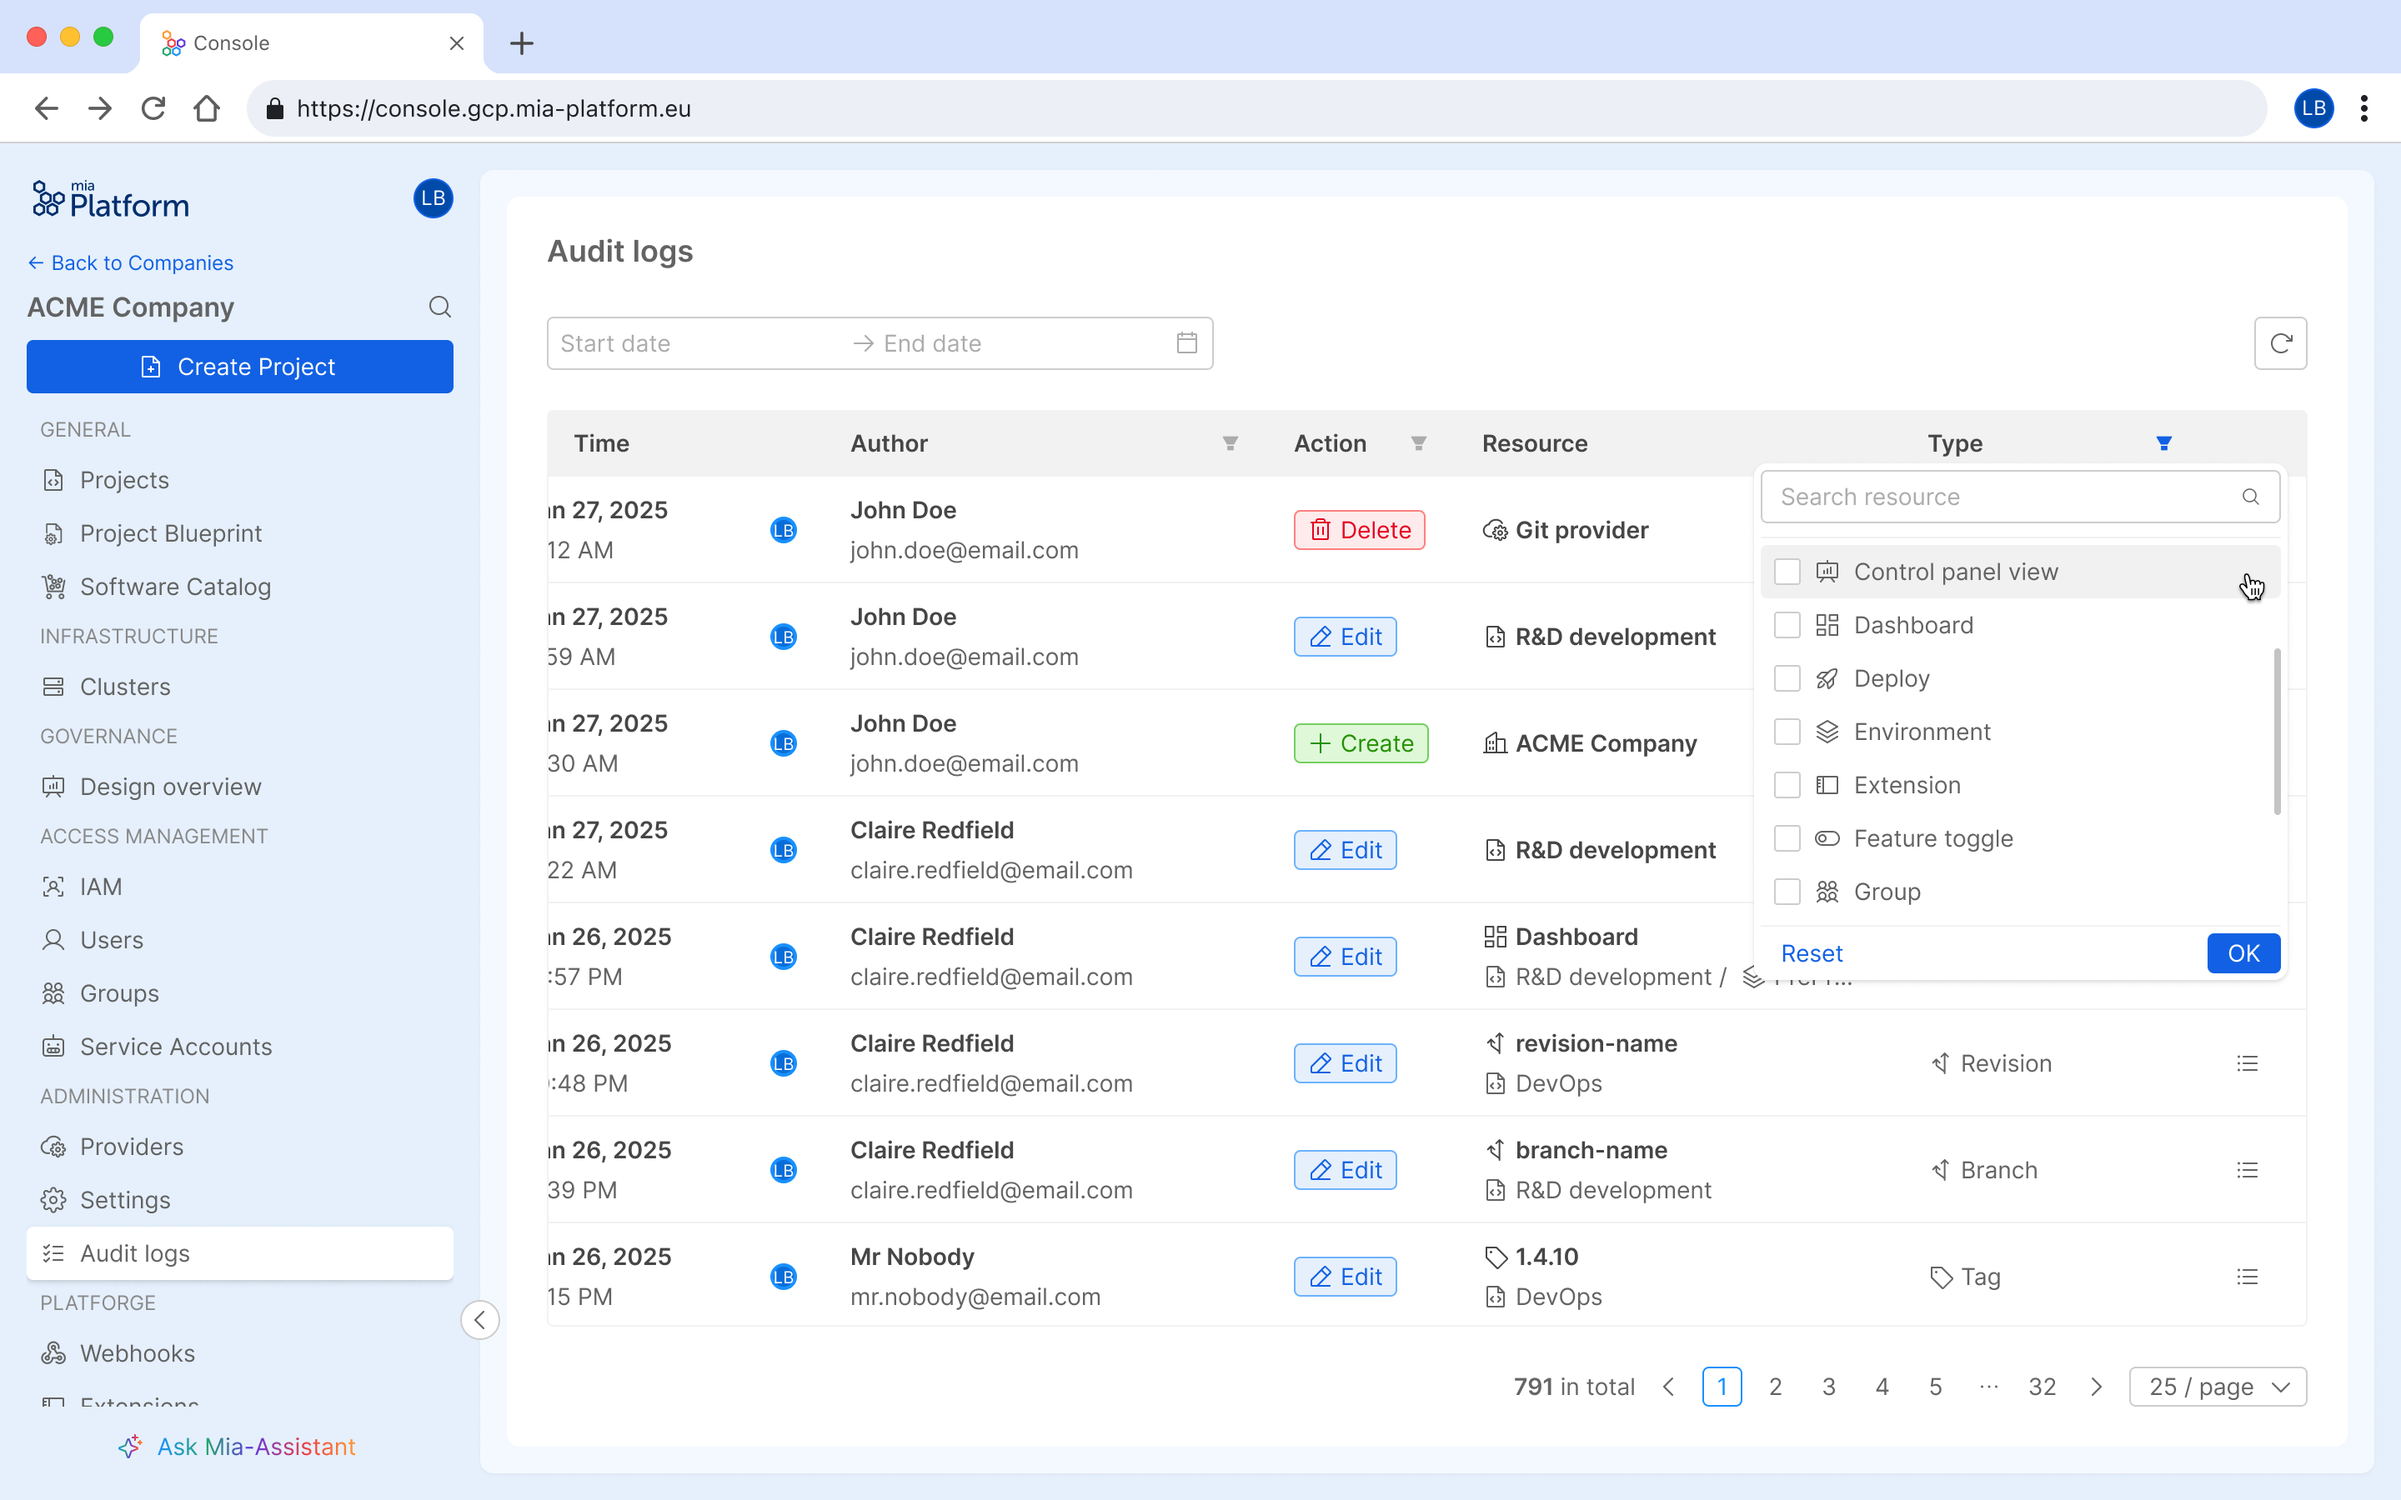
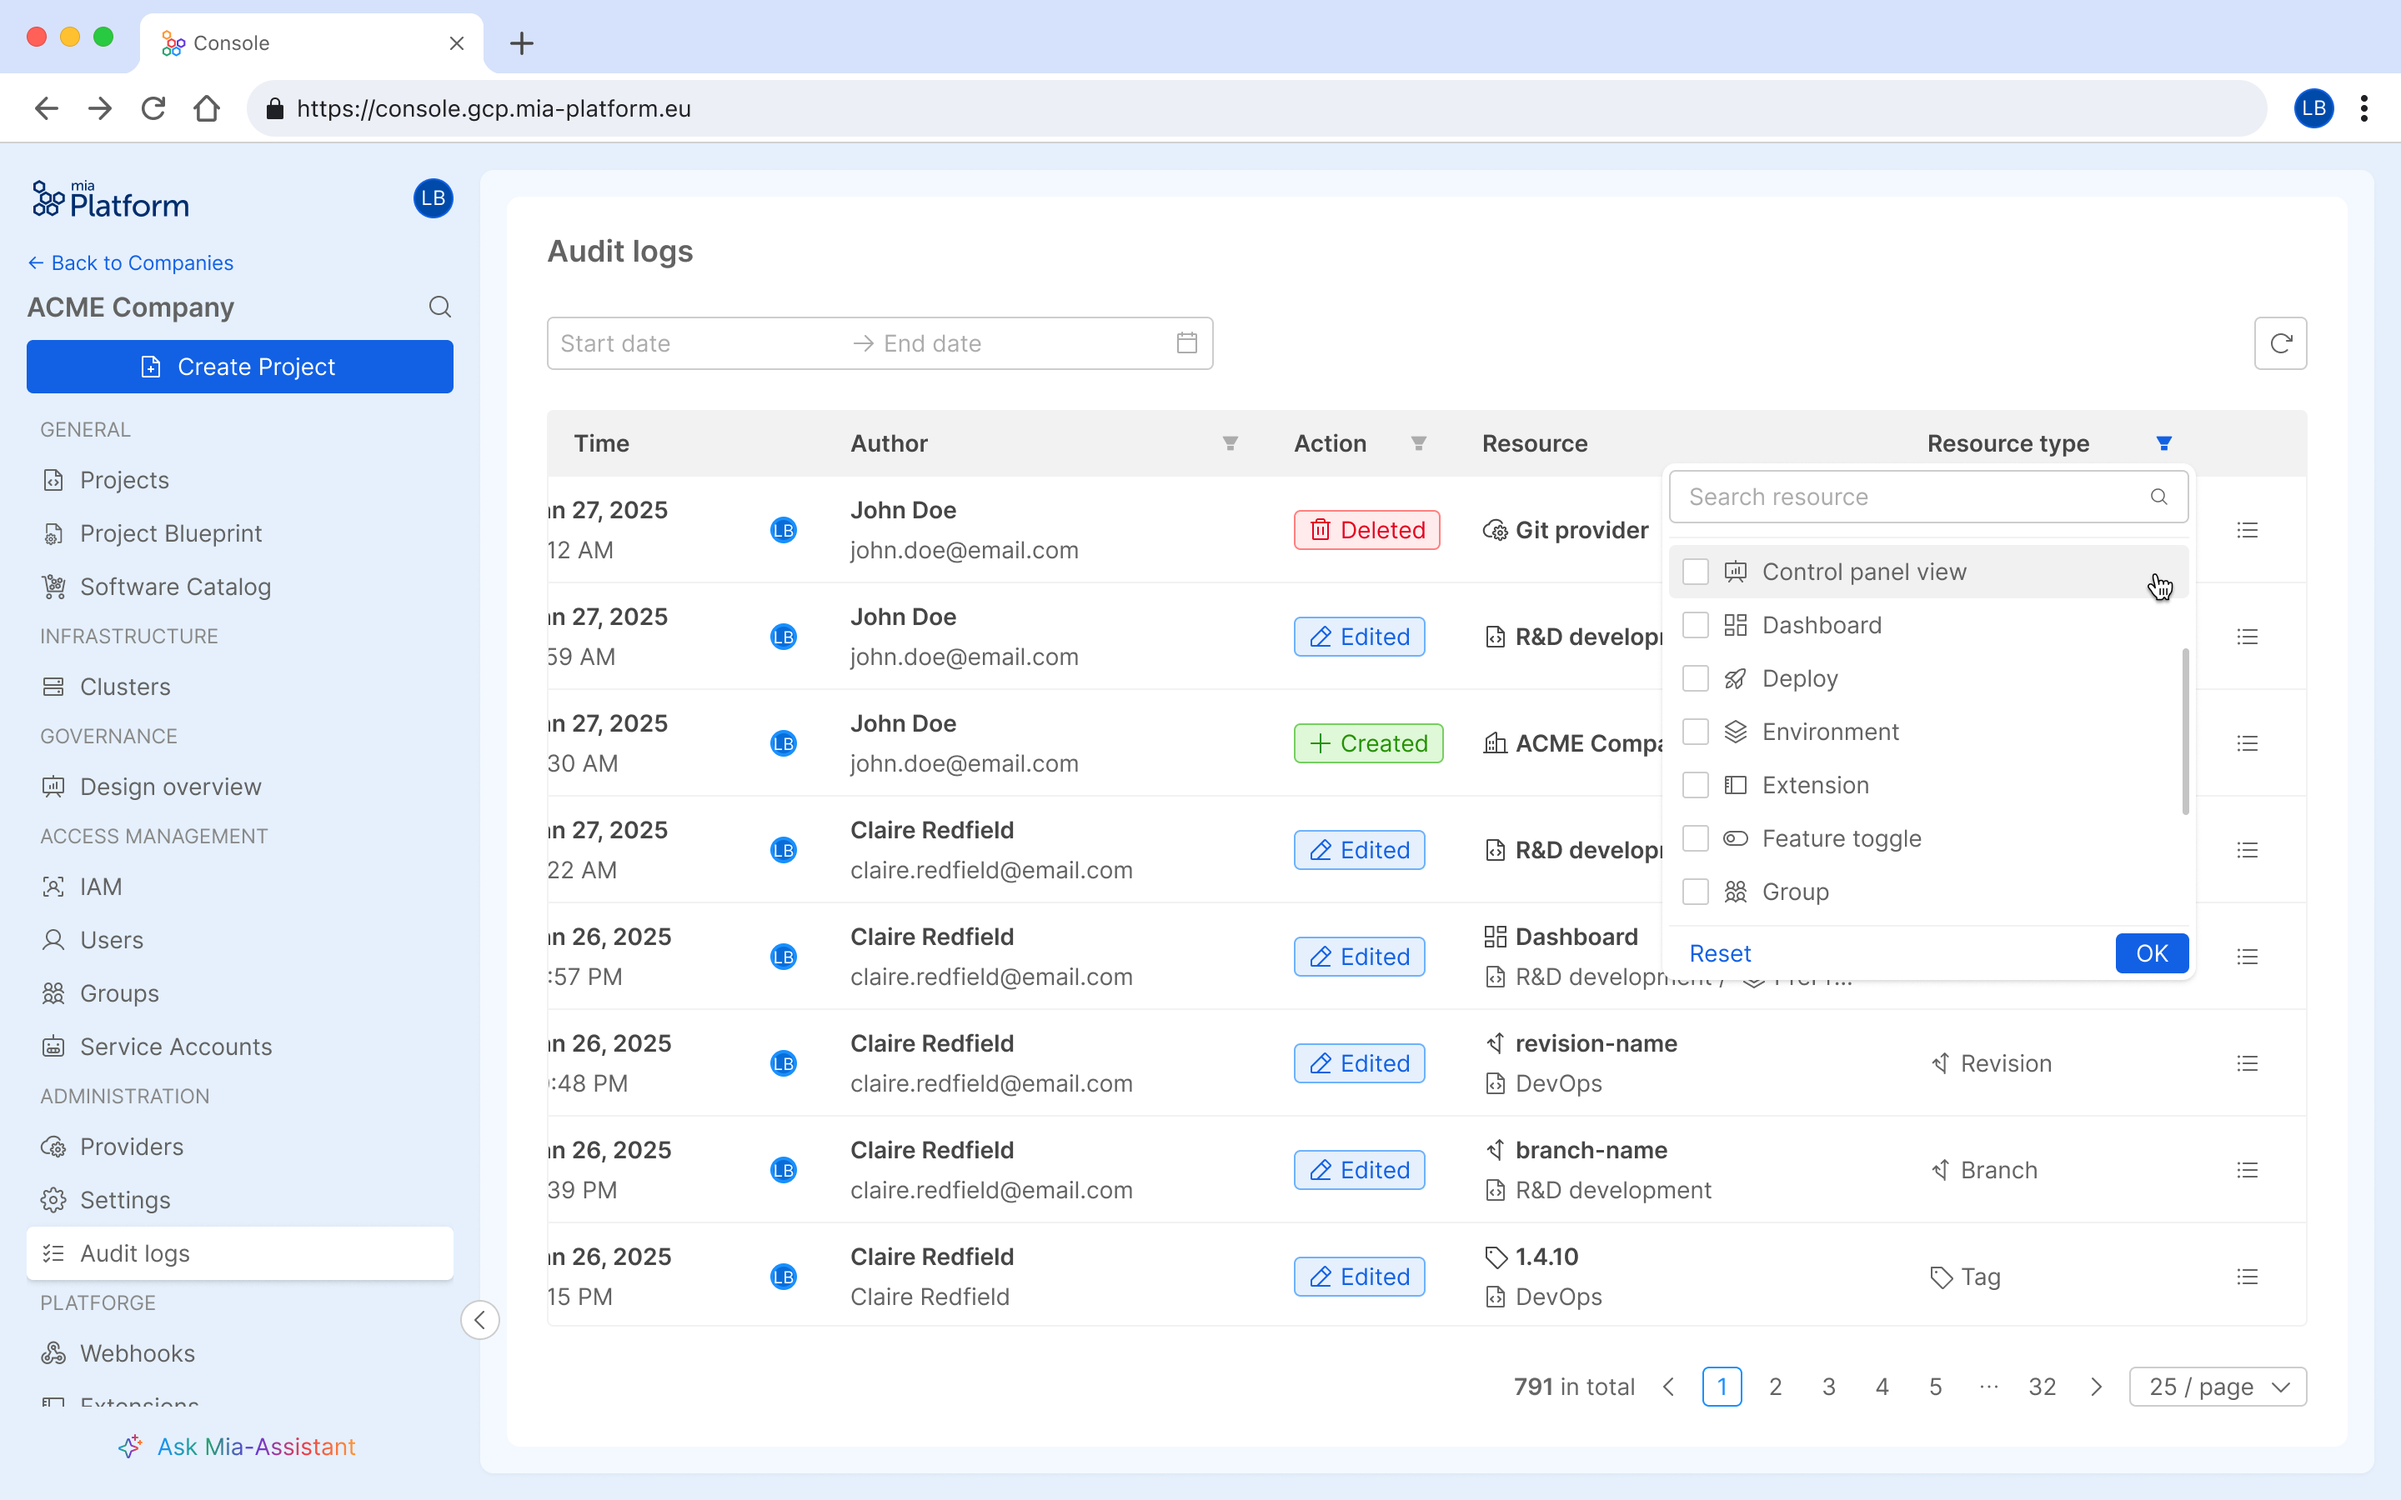
review

diff --git a/docs/development_suite/identity-and-access-management/monitor-audit-logs.md b/docs/development_suite/identity-and-access-management/monitor-audit-logs.md
@@ -11,7 +11,7 @@ This feature is designed to ensure **transparency** and **accountability** in th
 ## Audit Logs section
 
 The **Audit Logs** feature is available at the **Company level** within the **Administration** section of the Console.
-Accessible exclusively to users with the **Company Owner** role, it provides a comprehensive overview of the actions performed by the *Itentities* (*Users* and *Service Accounts*) on the Company's resources.
+Accessible exclusively to users with the **Company Owner** role, it provides a comprehensive overview of the actions performed by the *Identities* (*Users* and *Service Accounts*) on the Company's resources.
 
 Audit logs are displayed in a structured table format, offering the following details for each entry:  
 
@@ -19,7 +19,7 @@ Audit logs are displayed in a structured table format, offering the following de
 - **Author** of the action (*Identity* that initiated the action)  
 - **Operation performed** (*Creation*, *Edit*, or *Deletion*)  
 - **Target resource** and its **Scope**  
-- **Type** of the target resource  
+- **Target Resource type**
 
 ![Audit logs table](./img/audit-logs/table.png)
 
@@ -37,6 +37,6 @@ The **Audit Logs** section provides advanced filtering options for more precise 
 
 ![Filtering audit logs](./img/audit-logs/table-filter.png)
 
-:::tip
-The **retention time** of the logs is **6 months**.
+:::info
+If you are using Mia-Platform PaaS, the log retention period is set to six months.
 :::
